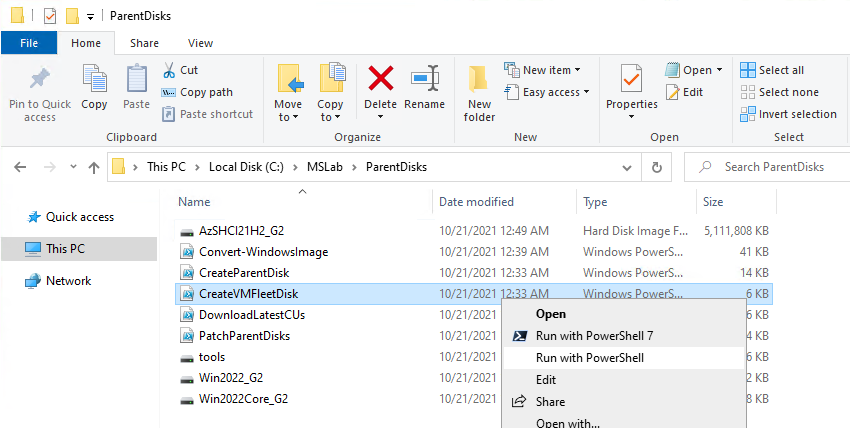
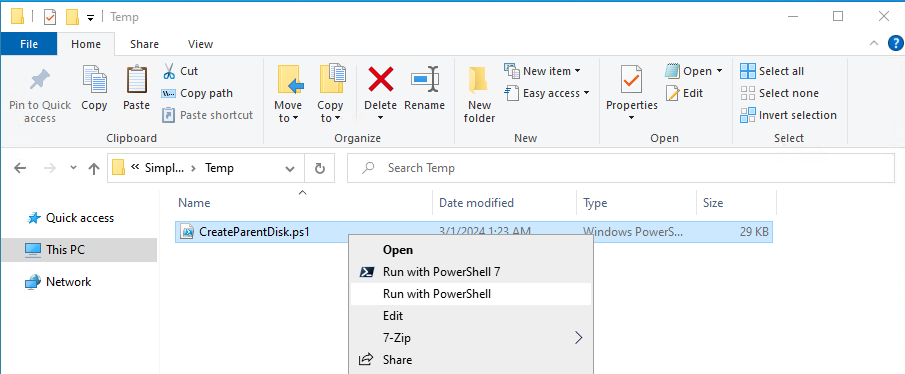
updated scenario

diff --git a/lab-guides/03-TestPerformanceWithVMFleet/readme.md b/lab-guides/03-TestPerformanceWithVMFleet/readme.md
@@ -18,53 +18,76 @@ In this lab you will learn about how to test performance of Azure Stack HCI clus
 
 The lab is based on [AzSHCI and VMFleet](https://github.com/microsoft/MSLab/tree/dev/Scenarios/AzSHCI%20and%20VMFleet) MSLab scenario.
 
-Creating vmfleet image needs to be performed from parentdisks folder.
-
-Ther rest of lab can be run from management machine or from DC (in MSLab).
-
-Keep PowerShell window open for entire lab
-
 ## Prerequsites
 
-The main prerequisite is to have Azure Stack HCI cluster where you can deploy VMFleet
+The main prerequisite is to have Azure Stack HCI cluster where you can deploy VMFleet.
 
-To perform following lab you can setup cluster using guides below:
+Next you'll need Windows Server ISO and three scripts [CreateParentDisk.ps1](https://github.com/microsoft/MSLab/blob/master/Tools/CreateParentDisk.ps1),[Convert-WindowsImage.ps1 (downloaded automatically)](https://github.com/microsoft/MSLab/blob/master/Tools/Convert-WindowsImage.ps1),[CreateVMFleetDisk.ps1](https://github.com/microsoft/MSLab/blob/master/Tools/CreateVMFleetDisk.ps1)
 
-* Hydrate MSLab with LabConfig from [01-HydrateMSLab](../../admin-guides/01-HydrateMSLab/readme.md)
+The machine where these tasks will be executed needs to have Hyper-V, and Hyper-V PowerShell module installed.
 
-* [Learn How MSLab works](../../admin-guides/02-WorkingWithMSLab/readme.md)
+In the lab several PowerShell modules will be downloaded.
 
-* [Deploy OS on hardware](../../admin-guides/03-DeployPhysicalServersWithMSLab/readme.md)
+## Task 01 - Create Windows Server 2022 Core VHD
 
-* [Deploy Azure Stack HCI with PowerShell](../../lab-guides/02-DeployAzureStackHCICluster-PowerShell/readme.md)
+To create Windows Server 2022 VHD you will need ISO file. Both ISO and VHD can be downloaded from [Windows Server Evaluation Center](https://www.microsoft.com/en-us/evalcenter/download-windows-server-2022), however I would recommend creating your own VHD as VHD is 127GB. Since during VMFLeet creation is VHD converted to fixed VHD, it will expand and may consume your storage. It's better to create your own taht is smaller (like 30GB)
 
-## Task 01 - Create vmfleet image
+You can also use any other ISO, just make sure it contains install.wim in sources directory.
 
-> Note: Microsoft docs are documenting vmfleet image creation with manual steps including capturing state. In MSLab is helper script that helps creating vmfleet image from any other parent VHD.
+**Step 1** Download [CreateParentDisk.ps1](https://github.com/microsoft/MSLab/blob/master/Tools/CreateParentDisk.ps1) script. 
 
-**Step 1** In MSLab folder, navigate into parentdisks folder and run [CreateVMFleetDisk.ps1](https://github.com/microsoft/MSLab/blob/master/Tools/CreateVMFleetDisk.ps1) by right-clicking it and selecting run with PowerShell.
+> This script will also download [Convert-WindowsImage.ps1](https://github.com/microsoft/MSLab/blob/master/Tools/Convert-WindowsImage.ps1) script. If you are working in offline environment, simply download it too and place into same directory. 
+
+> Converting image needs Hyper-V PowerShell module and also Hyper-V itself (to work with VHDs.). If you work with these images inside a VM, you might need to install Hyper-V with following script
+
+```PowerShell
+    #install Hyper-V using DISM
+    Enable-WindowsOptionalFeature -FeatureName Microsoft-Hyper-V -Online -All -NoRestart
+ 
+```
+
+**Step 2** Run CreateParentDisk.ps1 by right-clicking and selecting "Run with PowerShell".
 
 ![](./media/explorer01.png)
 
-**Step 2** Script will ask for VHD. Since VMFleet requires Windows Server Core, you can provide Win2022Core_G2.vhdx.
-
-> Note: Windows Server Core VHD can be created using [CreateParentDisk.ps1](https://github.com/microsoft/MSLab/blob/master/Tools/CreateParentDisk.ps1). The similar process (but how to create Azure Stack HCI VHD) is described in [Hydrate MSLab guide](../../admin-guides/01-HydrateMSLab#task-4---create-azure-stack-hci-parent-disk)
+**Step 3** Once asked, provide Windows Server 2022 ISO. Hit cancel to skip msu (cumulative update).
 
 ![](./media/powershell01.png)
 
-**Step 3** Script will ask for password that will be used for administrator. Provide **P@ssw0rd** as administrator password. VMFleet image will be created.
+**Step 4** Select Windows Server 2022 Datacenter or Standard (core)
 
 ![](./media/powershell02.png)
 
-**Step 4** Copy FleetImage.vhdx into DC (or management machine). You can use ctrl+c/ctrl+v. 
+**Step 5** Hit Enter (keep default name) and type 30 for 30GB vhd size
+
+![](./media/powershell03.png)
+
+as result, VHD will be created
+
+![](./media/powershell04.png)
+
+## Task 02 - Create vmfleet image
+
+**Step 1** Download [CreateVMFleetDisk.ps1](https://github.com/microsoft/MSLab/blob/master/Tools/CreateVMFleetDisk.ps1) script. 
+
+**Step 2** Run CreateVMFleetDisk.ps1 by right-clicking and selecting run with PowerShell
 
 ![](./media/explorer02.png)
 
+**Step 3** Once asked, provide VHD create in previous step
+
+![](./media/powershell05.png)
+
+**Step 4** Script will ask for password that will be used for administrator. Provide **P@ssw0rd** as administrator password. VMFleet image will be created.
+
+![](./media/powershell06.png)
+
+
 ## Task 02 - Configure VMFleet prerequsites
 
-> Note: Run all steps from DC or Management machine
+> Note: Run all steps from your management machine
 
-**Step 1** While logged into DC or management machine, Install required PowerShell modules using following PowerShell Script
+**Step 1** While logged into management machine, Install required PowerShell modules using following PowerShell Script
 
 ```PowerShell
     Install-PackageProvider -Name NuGet -MinimumVersion 2.8.5.201 -Force
@@ -79,32 +102,25 @@ To perform following lab you can setup cluster using guides below:
     $ClusterName="AzSHCI-Cluster"
     $Nodes=(Get-ClusterNode -Cluster $ClusterName).Name
     $VolumeSize=1TB
+    $StoragePool=Get-StoragePool -CimSession mcclus02 | Where-Object OtherUsageDescription -eq "Reserved for S2D"
 
-    #configure thin volumes a default if available (because why not :)
-    $OSInfo=Invoke-Command -ComputerName $ClusterName -ScriptBlock {
-        Get-ItemProperty -Path 'HKLM:\SOFTWARE\Microsoft\Windows NT\CurrentVersion\'
-    }
-    if ($OSInfo.productname -eq "Azure Stack HCI" -and $OSInfo.CurrentBuildNumber -ge 20348){
-        Get-StoragePool -CimSession $ClusterName -FriendlyName S2D* | Set-StoragePool -ProvisioningTypeDefault Thin
-    }
-
-    #Create Volumes for VMs
+    #Create Volumes for VMs (thin provisioned)
     Foreach ($Node in $Nodes){
         if (-not (Get-Virtualdisk -CimSession $ClusterName -FriendlyName $Node -ErrorAction Ignore)){
-            New-Volume -CimSession $Node -StoragePoolFriendlyName "S2D on $ClusterName" -FileSystem CSVFS_ReFS -FriendlyName $Node -Size $VolumeSize
+            New-Volume -CimSession $Node -StoragePool $StoragePool -FileSystem CSVFS_ReFS -FriendlyName $Node -Size $VolumeSize -ProvisioningType Thin
         }
     }
 
-    #Create Collect volume
+    #Create Collect volume (thin provisioned)
     if (-not (Get-Virtualdisk -CimSession $ClusterName -FriendlyName Collect -ErrorAction Ignore)){
-        New-Volume -CimSession $CLusterName -StoragePoolFriendlyName "S2D on $ClusterName" -FileSystem CSVFS_ReFS -FriendlyName Collect -Size 100GB
+        New-Volume -CimSession $CLusterName -StoragePool $StoragePool -FileSystem CSVFS_ReFS -FriendlyName Collect -Size 100GB -ProvisioningType Thin
     }
  
 ```
 
 Expected result
 
-![](./media/powershell03.png)
+![](./media/powershell07.png)
 
 ![](./media/cluadmin01.png)
 
@@ -150,14 +166,13 @@ Expected result
         #generate VHD Name from path (path was created when you were asked for VHD)
         $VHDName=$VHDPath | Split-Path -Leaf
 
-        $ClusterName="AzSHCI-Cluster"
-        $Nodes=(Get-ClusterNode -Cluster $ClusterName).Name
-
         #domain account credentials
         $AdminUsername="CORP\LabAdmin"
         $AdminPassword="LS1setup!"
         $securedpassword = ConvertTo-SecureString $AdminPassword -AsPlainText -Force
         $Credentials = New-Object System.Management.Automation.PSCredential ($AdminUsername, $securedpassword)
+        #Or simply ask for credentials
+        #$Credentials=Get-Credential
         #credentials for local admin located in FleetImage VHD
         $VHDAdminPassword="P@ssw0rd"
  
@@ -202,7 +217,7 @@ Expected result
 
 Expected result
 
-![](./media/powershell04.png)
+![](./media/powershell08.png)
 
 ![](./media/cluadmin02.png)
 
@@ -232,7 +247,16 @@ Expected result
 
 ![](./media/explorer06.png)
 
-**Step 6** Explore performance results by copying result.tsv to a computer, where excel is installed. Open result in excel and insert a table. You can review [sample result](./media/AX6515-All-Flash-4xSSD-32VMs-2Node.txt). 
+**Step 6** Monitor progress - run following command to open Watch-FleetCluster dashboard
+
+```PowerShell
+Watch-FleetCluster -Cluster <ClusterName> -Sets *
+ 
+```
+
+![](./media/powershell09.png)
+
+**Step 7** Explore performance results by copying result.tsv to a computer, where excel is installed. Open result in excel and insert a table. You can review [sample result](./media/AX6515-All-Flash-4xSSD-32VMs-2Node.txt). 
 
 ![](./media/excel01.png)
 

diff --git a/tips&tricks/01-EnvironmentalCheckerURLs/readme.md b/tips&tricks/01-EnvironmentalCheckerURLs/readme.md
@@ -1,5 +1,7 @@
 Recently I learned, that [Microsoft Documentation](https://learn.microsoft.com/en-us/azure-stack/hci/concepts/firewall-requirements) is/was missing several URLs that were later tested with [Azure Stack HCI Environmental Checker](https://learn.microsoft.com/en-us/azure-stack/hci/manage/use-environment-checker?tabs=connectivity).
 
+I also learned that the environmental checker is not checking all URL like [Kubernetes URLs](https://learn.microsoft.com/en-us/azure/aks/hybrid/aks-hci-network-system-requirements#firewall-url-exceptions)
+
 Let's take a look what URLs are actually tested.
 
 ```PowerShell

diff --git a/lab-guides/01a-DeployAzureStackHCICluster-CloudBasedDeployment/readme.md b/lab-guides/01a-DeployAzureStackHCICluster-CloudBasedDeployment/readme.md
@@ -109,7 +109,6 @@ Install-Module AsHciADArtifactsPreCreationTool -Repository PSGallery -Force
 
 ![](./media/dsa01.png)
 
-
 **Step 3** Install additional features to be able explore cluster and settings once it's created
 
 ```PowerShell
